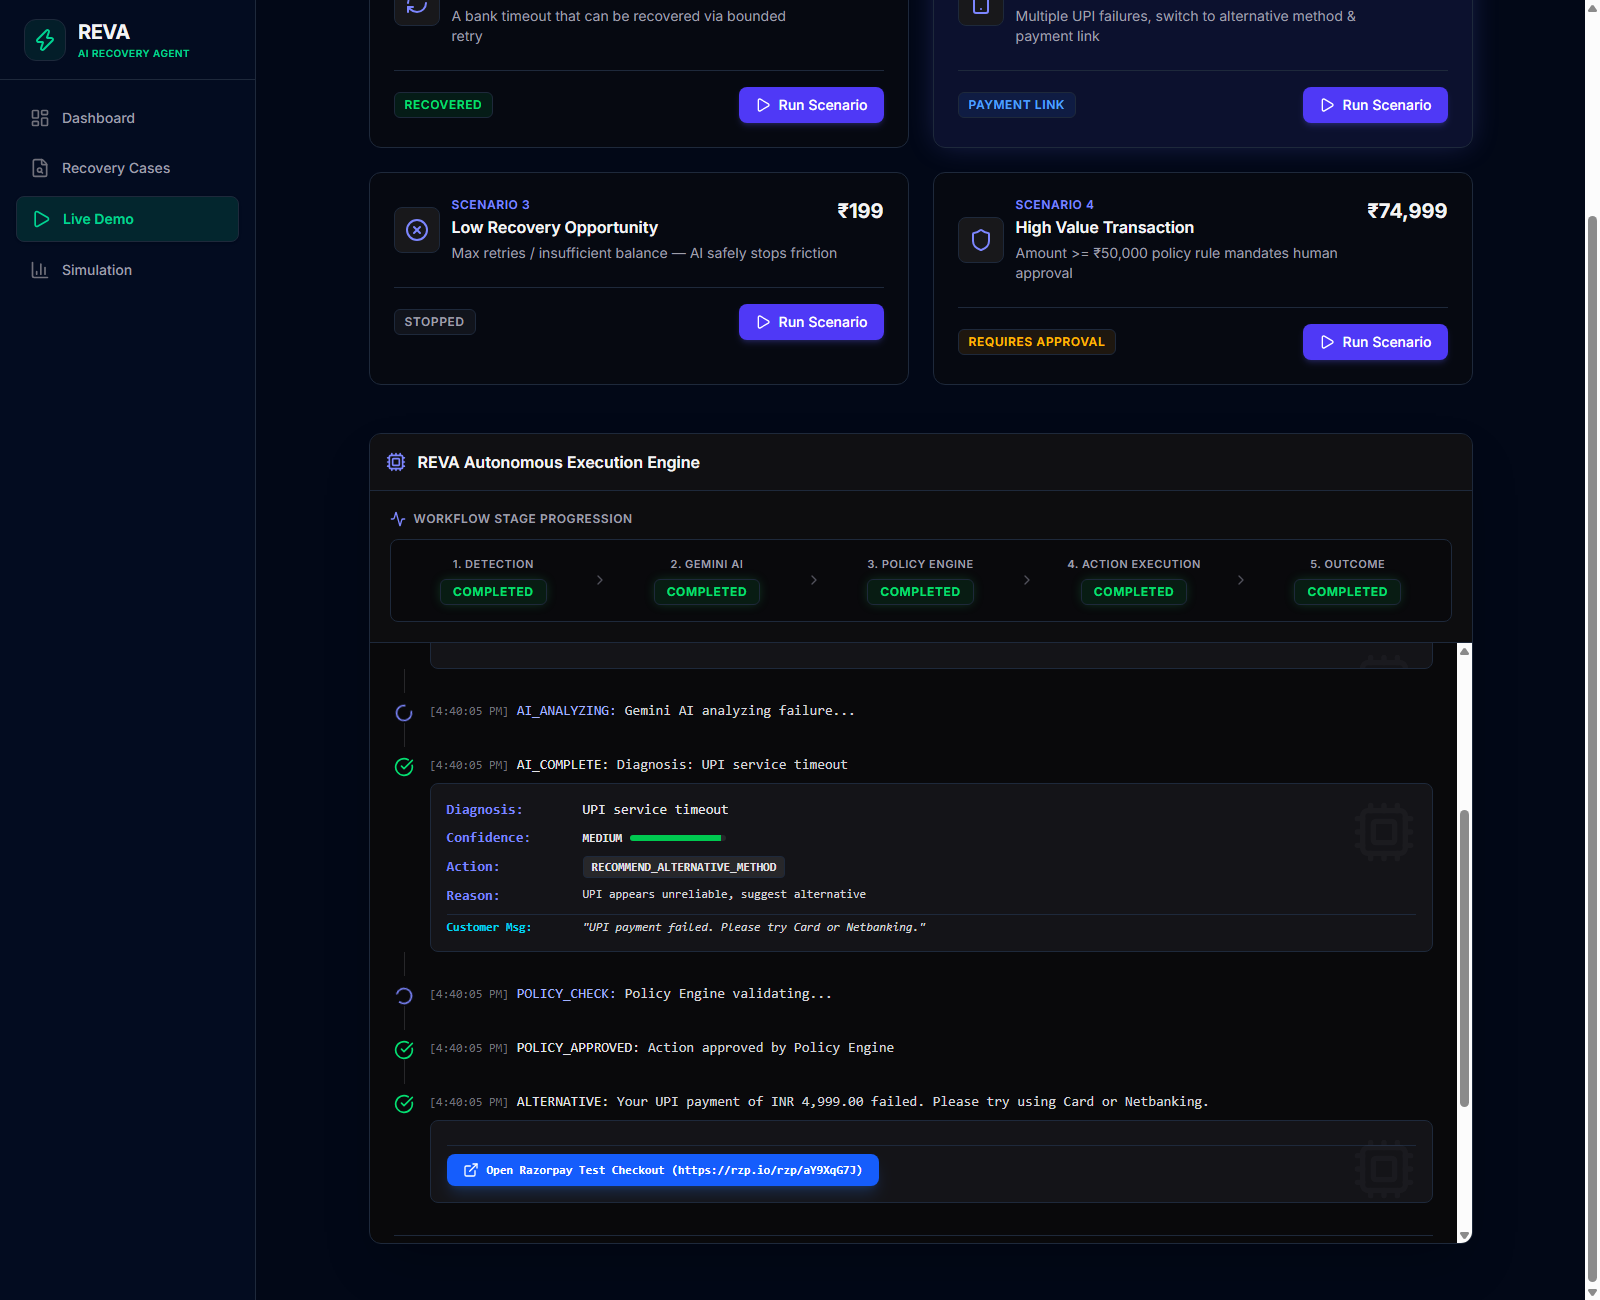
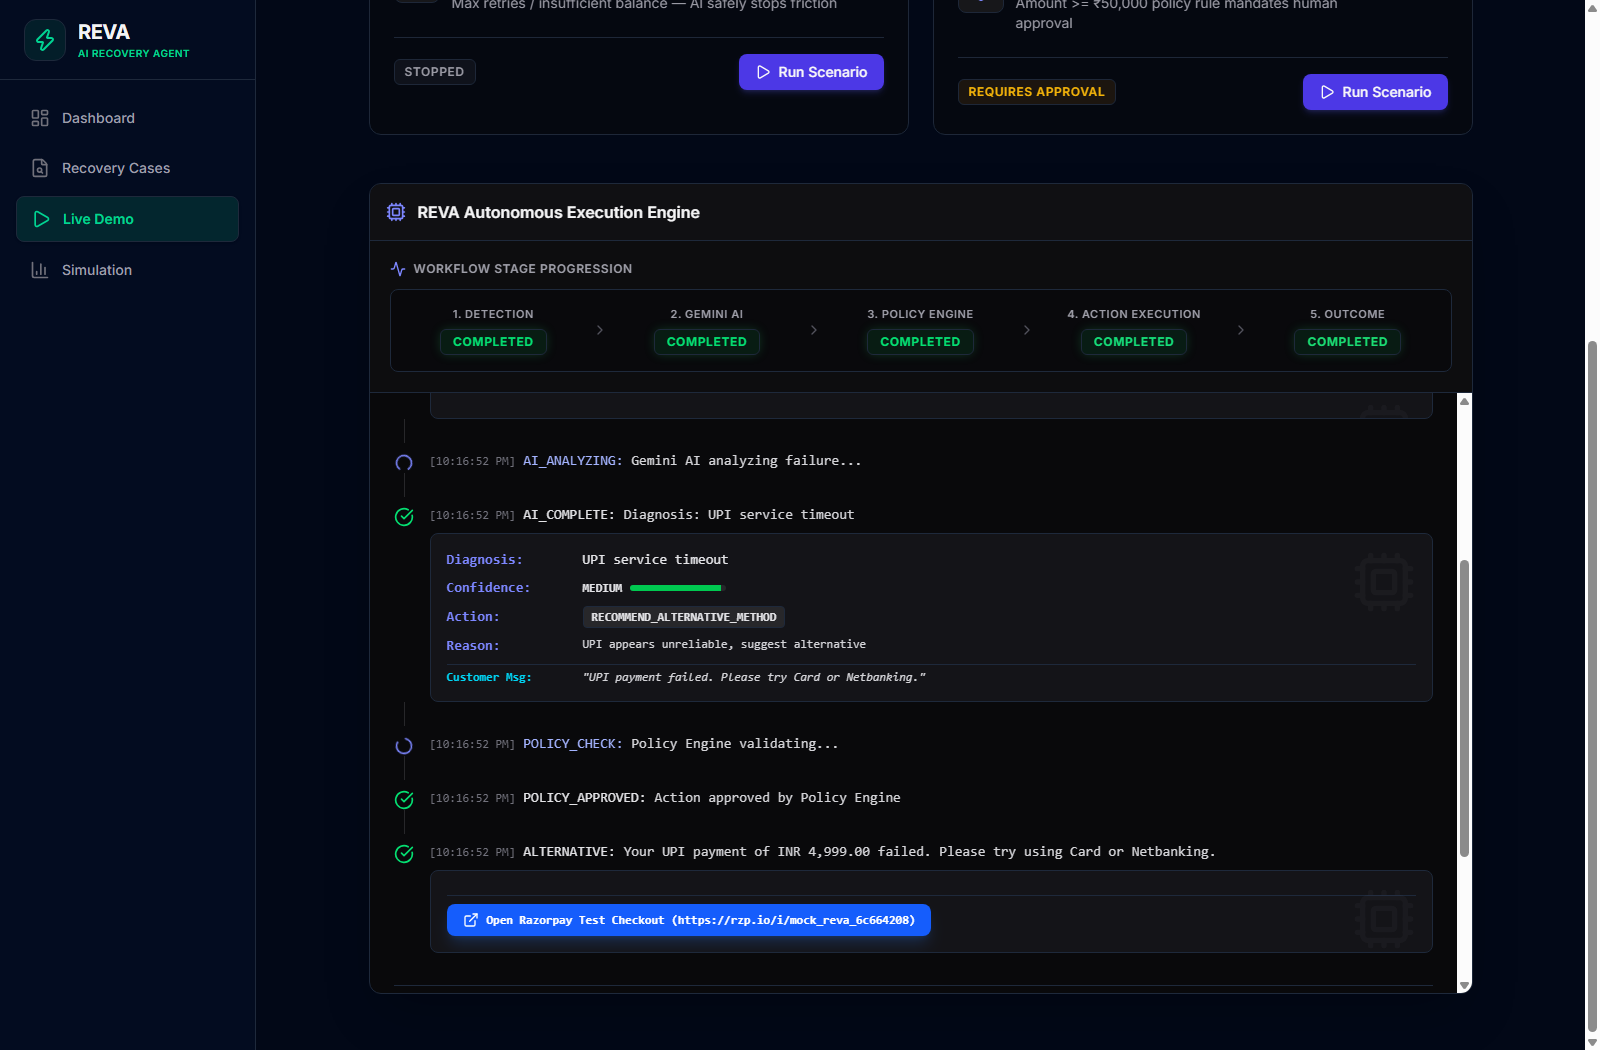
Fix Live Demo execution flow and add robust timeouts for fast and reliable completion

diff --git a/dashboard/app/demo/page.tsx b/dashboard/app/demo/page.tsx
@@ -120,25 +120,35 @@ export default function DemoPage() {
     setError(null);
 
     try {
+      const controller = new AbortController();
+      const timeoutId = setTimeout(() => controller.abort(), 20000);
+
       const res = await fetch(`${API_BASE}/api/demo/run-scenario`, {
         method: "POST",
         headers: {
           "Content-Type": "application/json",
         },
         body: JSON.stringify({ scenario: id }),
+        signal: controller.signal,
       });
+      clearTimeout(timeoutId);
 
       if (!res.ok) {
-        throw new Error("Failed to run scenario");
+        throw new Error(`Server returned HTTP ${res.status}`);
       }
 
       const data: RunScenarioResponse = await res.json();
-      setAllSteps(data.steps);
-      setCaseId(data.case_id);
-      setFinalStatus(data.final_status);
-    } catch (err) {
-      console.error(err);
-      setError("An error occurred while running the scenario.");
+      if (data.steps && data.steps.length > 0) {
+        setAllSteps(data.steps);
+        setDisplayedSteps([data.steps[0]]);
+        setCaseId(data.case_id);
+        setFinalStatus(data.final_status || "COMPLETED");
+      } else {
+        throw new Error(data.error || "No execution steps returned");
+      }
+    } catch (err: any) {
+      console.error("Scenario execution error:", err);
+      setError(err?.name === "AbortError" ? "Request timed out. Please retry." : (err?.message || "An error occurred while running the scenario."));
       setIsRunning(false);
     }
   };
@@ -153,6 +163,9 @@ export default function DemoPage() {
     setError(null);
 
     try {
+      const controller = new AbortController();
+      const timeoutId = setTimeout(() => controller.abort(), 20000);
+
       const res = await fetch(`${API_BASE}/api/demo/run-custom-scenario`, {
         method: "POST",
         headers: {
@@ -166,19 +179,26 @@ export default function DemoPage() {
           retry_count: Number(customRetries),
           customer_name: customName || "Custom Demo",
         }),
+        signal: controller.signal,
       });
+      clearTimeout(timeoutId);
 
       if (!res.ok) {
-        throw new Error("Failed to run custom scenario");
+        throw new Error(`Server returned HTTP ${res.status}`);
       }
 
       const data: RunScenarioResponse = await res.json();
-      setAllSteps(data.steps);
-      setCaseId(data.case_id);
-      setFinalStatus(data.final_status);
-    } catch (err) {
-      console.error(err);
-      setError("An error occurred while running custom scenario.");
+      if (data.steps && data.steps.length > 0) {
+        setAllSteps(data.steps);
+        setDisplayedSteps([data.steps[0]]);
+        setCaseId(data.case_id);
+        setFinalStatus(data.final_status || "COMPLETED");
+      } else {
+        throw new Error(data.error || "No execution steps returned");
+      }
+    } catch (err: any) {
+      console.error("Custom scenario error:", err);
+      setError(err?.name === "AbortError" ? "Request timed out. Please retry." : (err?.message || "An error occurred while running custom scenario."));
       setIsRunning(false);
     }
   };
@@ -187,9 +207,9 @@ export default function DemoPage() {
     if (allSteps.length > 0 && displayedSteps.length < allSteps.length) {
       const timer = setTimeout(() => {
         setDisplayedSteps((prev) => [...prev, allSteps[prev.length]]);
-      }, 700);
+      }, 250);
       return () => clearTimeout(timer);
-    } else if (allSteps.length > 0 && displayedSteps.length === allSteps.length) {
+    } else if (allSteps.length > 0 && displayedSteps.length >= allSteps.length) {
       setIsRunning(false);
     }
   }, [allSteps, displayedSteps]);
@@ -204,33 +224,53 @@ export default function DemoPage() {
 
     // 1. Detection
     let detection: StageStatus = "WAITING";
-    if (stepNames.includes("CASE_CREATED")) detection = "COMPLETED";
-    else if (stepNames.includes("INIT") || stepNames.includes("PAYMENT_FAILED")) detection = "PROCESSING";
+    if (stepNames.includes("CASE_CREATED") || stepNames.includes("AI_ANALYZING") || stepNames.includes("AI_COMPLETE")) {
+      detection = "COMPLETED";
+    } else if (stepNames.includes("INIT") || stepNames.includes("CUSTOMER_FOUND") || stepNames.includes("PAYMENT_FAILED") || isRunning) {
+      detection = "PROCESSING";
+    }
 
     // 2. Gemini AI
     let ai: StageStatus = "WAITING";
-    if (stepNames.includes("AI_COMPLETE")) ai = "COMPLETED";
-    else if (stepNames.includes("AI_ANALYZING")) ai = "PROCESSING";
+    if (stepNames.includes("AI_COMPLETE") || stepNames.includes("POLICY_CHECK") || stepNames.includes("POLICY_APPROVED") || stepNames.includes("ALTERNATIVE") || stepNames.includes("RECOVERED")) {
+      ai = "COMPLETED";
+    } else if (stepNames.includes("AI_ANALYZING") || stepNames.includes("CASE_CREATED")) {
+      ai = "PROCESSING";
+    }
 
     // 3. Policy Engine
     let policy: StageStatus = "WAITING";
-    if (stepNames.includes("POLICY_BLOCKED") || stepNames.includes("REQUIRES_APPROVAL")) policy = "BLOCKED";
-    else if (stepNames.includes("POLICY_APPROVED")) policy = "COMPLETED";
-    else if (stepNames.includes("POLICY_CHECK")) policy = "PROCESSING";
+    if (stepNames.includes("POLICY_BLOCKED") || stepNames.includes("REQUIRES_APPROVAL")) {
+      policy = "BLOCKED";
+    } else if (stepNames.includes("POLICY_APPROVED") || stepNames.includes("ACTION_EXECUTED") || stepNames.includes("RECOVERED") || stepNames.includes("ALTERNATIVE") || stepNames.includes("STOPPED")) {
+      policy = "COMPLETED";
+    } else if (stepNames.includes("POLICY_CHECK") || stepNames.includes("AI_COMPLETE")) {
+      policy = "PROCESSING";
+    }
 
     // 4. Action Execution
     let execution: StageStatus = "WAITING";
-    if (stepNames.includes("POLICY_BLOCKED") || stepNames.includes("REQUIRES_APPROVAL")) execution = "BLOCKED";
-    else if (stepNames.includes("RECOVERED") || stepNames.includes("PAYMENT_LINK") || stepNames.includes("ALTERNATIVE") || stepNames.includes("STOPPED")) execution = "COMPLETED";
-    else if (stepNames.includes("RECOVERY_FAILED")) execution = "FAILED";
-    else if (stepNames.includes("ACTION_EXECUTED") || stepNames.includes("POLICY_APPROVED")) execution = "PROCESSING";
+    if (stepNames.includes("POLICY_BLOCKED") || stepNames.includes("REQUIRES_APPROVAL")) {
+      execution = "BLOCKED";
+    } else if (stepNames.includes("RECOVERED") || stepNames.includes("PAYMENT_LINK") || stepNames.includes("ALTERNATIVE") || stepNames.includes("STOPPED")) {
+      execution = "COMPLETED";
+    } else if (stepNames.includes("RECOVERY_FAILED")) {
+      execution = "FAILED";
+    } else if (stepNames.includes("ACTION_EXECUTED") || stepNames.includes("POLICY_APPROVED")) {
+      execution = "PROCESSING";
+    }
 
     // 5. Result
     let result: StageStatus = "WAITING";
-    if (stepNames.includes("POLICY_BLOCKED") || stepNames.includes("REQUIRES_APPROVAL")) result = "BLOCKED";
-    else if (stepNames.includes("RECOVERED") || stepNames.includes("PAYMENT_LINK") || stepNames.includes("ALTERNATIVE") || stepNames.includes("STOPPED")) result = "COMPLETED";
-    else if (stepNames.includes("RECOVERY_FAILED")) result = "FAILED";
-    else if (stepNames.includes("ACTION_EXECUTED")) result = "PROCESSING";
+    if (stepNames.includes("POLICY_BLOCKED") || stepNames.includes("REQUIRES_APPROVAL")) {
+      result = "BLOCKED";
+    } else if (stepNames.includes("RECOVERED") || stepNames.includes("PAYMENT_LINK") || stepNames.includes("ALTERNATIVE") || stepNames.includes("STOPPED")) {
+      result = "COMPLETED";
+    } else if (stepNames.includes("RECOVERY_FAILED")) {
+      result = "FAILED";
+    } else if (stepNames.includes("ACTION_EXECUTED")) {
+      result = "PROCESSING";
+    }
 
     return { detection, ai, policy, execution, result };
   };
@@ -347,6 +387,8 @@ export default function DemoPage() {
                   {s.expectedOutcome}
                 </span>
                 <button
+                  id={`run-scenario-btn-${s.id}`}
+                  data-testid={`run-scenario-btn-${s.id}`}
                   onClick={() => runScenario(s.id)}
                   disabled={isRunning}
                   className="flex items-center gap-2 px-4 py-2 bg-indigo-600 hover:bg-indigo-500 text-white text-sm font-medium rounded-lg transition-colors disabled:opacity-50 shadow-md shadow-indigo-500/20"

diff --git a/server/app/services/gemini_service.py b/server/app/services/gemini_service.py
@@ -2,6 +2,7 @@
 
 import json
 import traceback
+import concurrent.futures
 from google import genai
 from app.config import get_settings
 from app.models.schemas import GeminiAnalysis
@@ -77,14 +78,11 @@ def analyze_payment(
         customer_success_rate, previous_failures, recovery_attempts
     )
 
-    candidate_models = [settings.gemini_model]
-    for fallback_model in ["gemini-3.6-flash", "gemini-flash-latest"]:
-        if fallback_model not in candidate_models:
-            candidate_models.append(fallback_model)
-
-    for model_name in candidate_models:
-        try:
-            response = client.models.generate_content(
+    model_name = settings.gemini_model
+    try:
+        with concurrent.futures.ThreadPoolExecutor(max_workers=1) as executor:
+            future = executor.submit(
+                client.models.generate_content,
                 model=model_name,
                 contents=f"{SYSTEM_PROMPT}\n\n{user_prompt}",
                 config=genai.types.GenerateContentConfig(
@@ -93,68 +91,73 @@ def analyze_payment(
                     response_mime_type="application/json",
                 ),
             )
-            raw = response.text.strip()
+            response = future.result(timeout=2.0)
+        raw = response.text.strip()
 
-            # Clean possible markdown fences if returned
-            if raw.startswith("```"):
-                raw = raw.split("\n", 1)[-1]
-                if raw.endswith("```"):
-                    raw = raw[:-3]
-                raw = raw.strip()
+        # Clean possible markdown fences if returned
+        if raw.startswith("```"):
+            raw = raw.split("\n", 1)[-1]
+            if raw.endswith("```"):
+                raw = raw[:-3]
+            raw = raw.strip()
 
-            parsed = json.loads(raw)
+        parsed = json.loads(raw)
 
-            # Robust confidence normalization
-            conf = parsed.get("confidence", "high")
-            if isinstance(conf, (int, float)):
-                conf = "high" if conf >= 0.7 else ("medium" if conf >= 0.4 else "low")
-            elif isinstance(conf, str):
-                conf_str = conf.strip().lower()
-                conf = "high" if "high" in conf_str else ("low" if "low" in conf_str else "medium")
+        # Robust confidence normalization
+        conf = parsed.get("confidence", "high")
+        if isinstance(conf, (int, float)):
+            conf = "high" if conf >= 0.7 else ("medium" if conf >= 0.4 else "low")
+        elif isinstance(conf, str):
+            conf_str = conf.strip().lower()
+            conf = "high" if "high" in conf_str else ("low" if "low" in conf_str else "medium")
+        else:
+            conf = "high"
+        parsed["confidence"] = conf
+
+        # Robust recommended_action normalization
+        action = str(parsed.get("recommended_action", "")).strip().upper()
+        valid_actions = {
+            "RETRY_LATER",
+            "CREATE_PAYMENT_LINK",
+            "RECOMMEND_ALTERNATIVE_METHOD",
+            "STOP_RECOVERY",
+            "ESCALATE",
+        }
+        if action not in valid_actions:
+            if "ALTERNATIVE" in action or "METHOD" in action:
+                action = "RECOMMEND_ALTERNATIVE_METHOD"
+            elif "LINK" in action:
+                action = "CREATE_PAYMENT_LINK"
+            elif "RETRY" in action:
+                action = "RETRY_LATER"
+            elif "STOP" in action:
+                action = "STOP_RECOVERY"
             else:
-                conf = "high"
-            parsed["confidence"] = conf
+                action = "RECOMMEND_ALTERNATIVE_METHOD"
+        parsed["recommended_action"] = action
 
-            # Robust recommended_action normalization
-            action = str(parsed.get("recommended_action", "")).strip().upper()
-            valid_actions = {
-                "RETRY_LATER",
-                "CREATE_PAYMENT_LINK",
-                "RECOMMEND_ALTERNATIVE_METHOD",
-                "STOP_RECOVERY",
-                "ESCALATE",
-            }
-            if action not in valid_actions:
-                if "ALTERNATIVE" in action or "METHOD" in action:
-                    action = "RECOMMEND_ALTERNATIVE_METHOD"
-                elif "LINK" in action:
-                    action = "CREATE_PAYMENT_LINK"
-                elif "RETRY" in action:
-                    action = "RETRY_LATER"
-                elif "STOP" in action:
-                    action = "STOP_RECOVERY"
-                else:
-                    action = "RECOMMEND_ALTERNATIVE_METHOD"
-            parsed["recommended_action"] = action
+        analysis = GeminiAnalysis(**parsed)
 
-            analysis = GeminiAnalysis(**parsed)
+        log_event(case_id, "Gemini AI", "ANALYSIS_COMPLETE",
+                  f"Diagnosis: {analysis.diagnosis}",
+                  {"confidence": analysis.confidence, "model": model_name, "raw_response": raw})
+        return analysis
 
-            log_event(case_id, "Gemini AI", "ANALYSIS_COMPLETE",
-                      f"Diagnosis: {analysis.diagnosis}",
-                      {"confidence": analysis.confidence, "model": model_name, "raw_response": raw})
-            return analysis
+    except concurrent.futures.TimeoutError:
+        log_event(case_id, "Gemini AI", "TIMEOUT",
+                  f"Gemini API request timed out after 2s ({model_name}).")
+    except json.JSONDecodeError as e:
+        log_event(case_id, "Gemini AI", "PARSE_ERROR",
+                  f"Invalid JSON from Gemini ({model_name}): {str(e)}",
+                  {"raw": raw if 'raw' in dir() else "N/A"})
+    except Exception as e:
+        err_str = str(e)
+        log_event(case_id, "Gemini AI", "API_ERROR",
+                  f"Gemini API error ({model_name}): {err_str}",
+                  {"traceback": traceback.format_exc()})
 
-        except json.JSONDecodeError as e:
-            log_event(case_id, "Gemini AI", "PARSE_ERROR",
-                      f"Invalid JSON from Gemini ({model_name}): {str(e)}",
-                      {"raw": raw if 'raw' in dir() else "N/A"})
-        except Exception as e:
-            log_event(case_id, "Gemini AI", "API_ERROR",
-                      f"Gemini API error ({model_name}): {str(e)}",
-                      {"traceback": traceback.format_exc()})
-
-    # Fallback after 2 failed attempts
-    log_event(case_id, "Gemini AI", "FALLBACK", "Using deterministic fallback after Gemini failure.")
+    # Graceful deterministic fallback
+    log_event(case_id, "Gemini AI", "FALLBACK", "Using deterministic AI heuristic fallback.")
     return _fallback_analysis(failure_reason, retry_count, customer_success_rate)
 
 

diff --git a/server/app/services/razorpay_service.py b/server/app/services/razorpay_service.py
@@ -3,6 +3,7 @@
 import uuid
 import traceback
 import logging
+import concurrent.futures
 from app.config import get_settings
 from app.services.audit_service import log_event
 
@@ -42,7 +43,8 @@ def create_payment_link(
                     "email": customer_email,
                 },
                 "notify": {
-                    "email": True,
+                    "email": False,
+                    "sms": False,
                 },
                 "callback_url": "",
                 "callback_method": "get",
@@ -52,7 +54,9 @@ def create_payment_link(
                 },
             }
 
-            result = client.payment_link.create(payload)
+            with concurrent.futures.ThreadPoolExecutor(max_workers=1) as executor:
+                future = executor.submit(client.payment_link.create, payload)
+                result = future.result(timeout=2.0)
 
             log_event(case_id, "Razorpay", "PAYMENT_LINK_CREATED",
                       f"Razorpay payment link created: {result.get('short_url', 'N/A')}",

diff --git a/server/app/main.py b/server/app/main.py
@@ -43,7 +43,13 @@ def startup_configuration_check():
 # CORS — allow frontend
 app.add_middleware(
     CORSMiddleware,
-    allow_origins=["http://localhost:3000", "http://127.0.0.1:3000"],
+    allow_origins=[
+        "http://localhost:3000",
+        "http://127.0.0.1:3000",
+        "http://localhost:8000",
+        "http://127.0.0.1:8000",
+    ],
+    allow_origin_regex=r"http://(localhost|127\.0\.0\.1|192\.168\.\d+\.\d+):\d+",
     allow_credentials=True,
     allow_methods=["*"],
     allow_headers=["*"],
